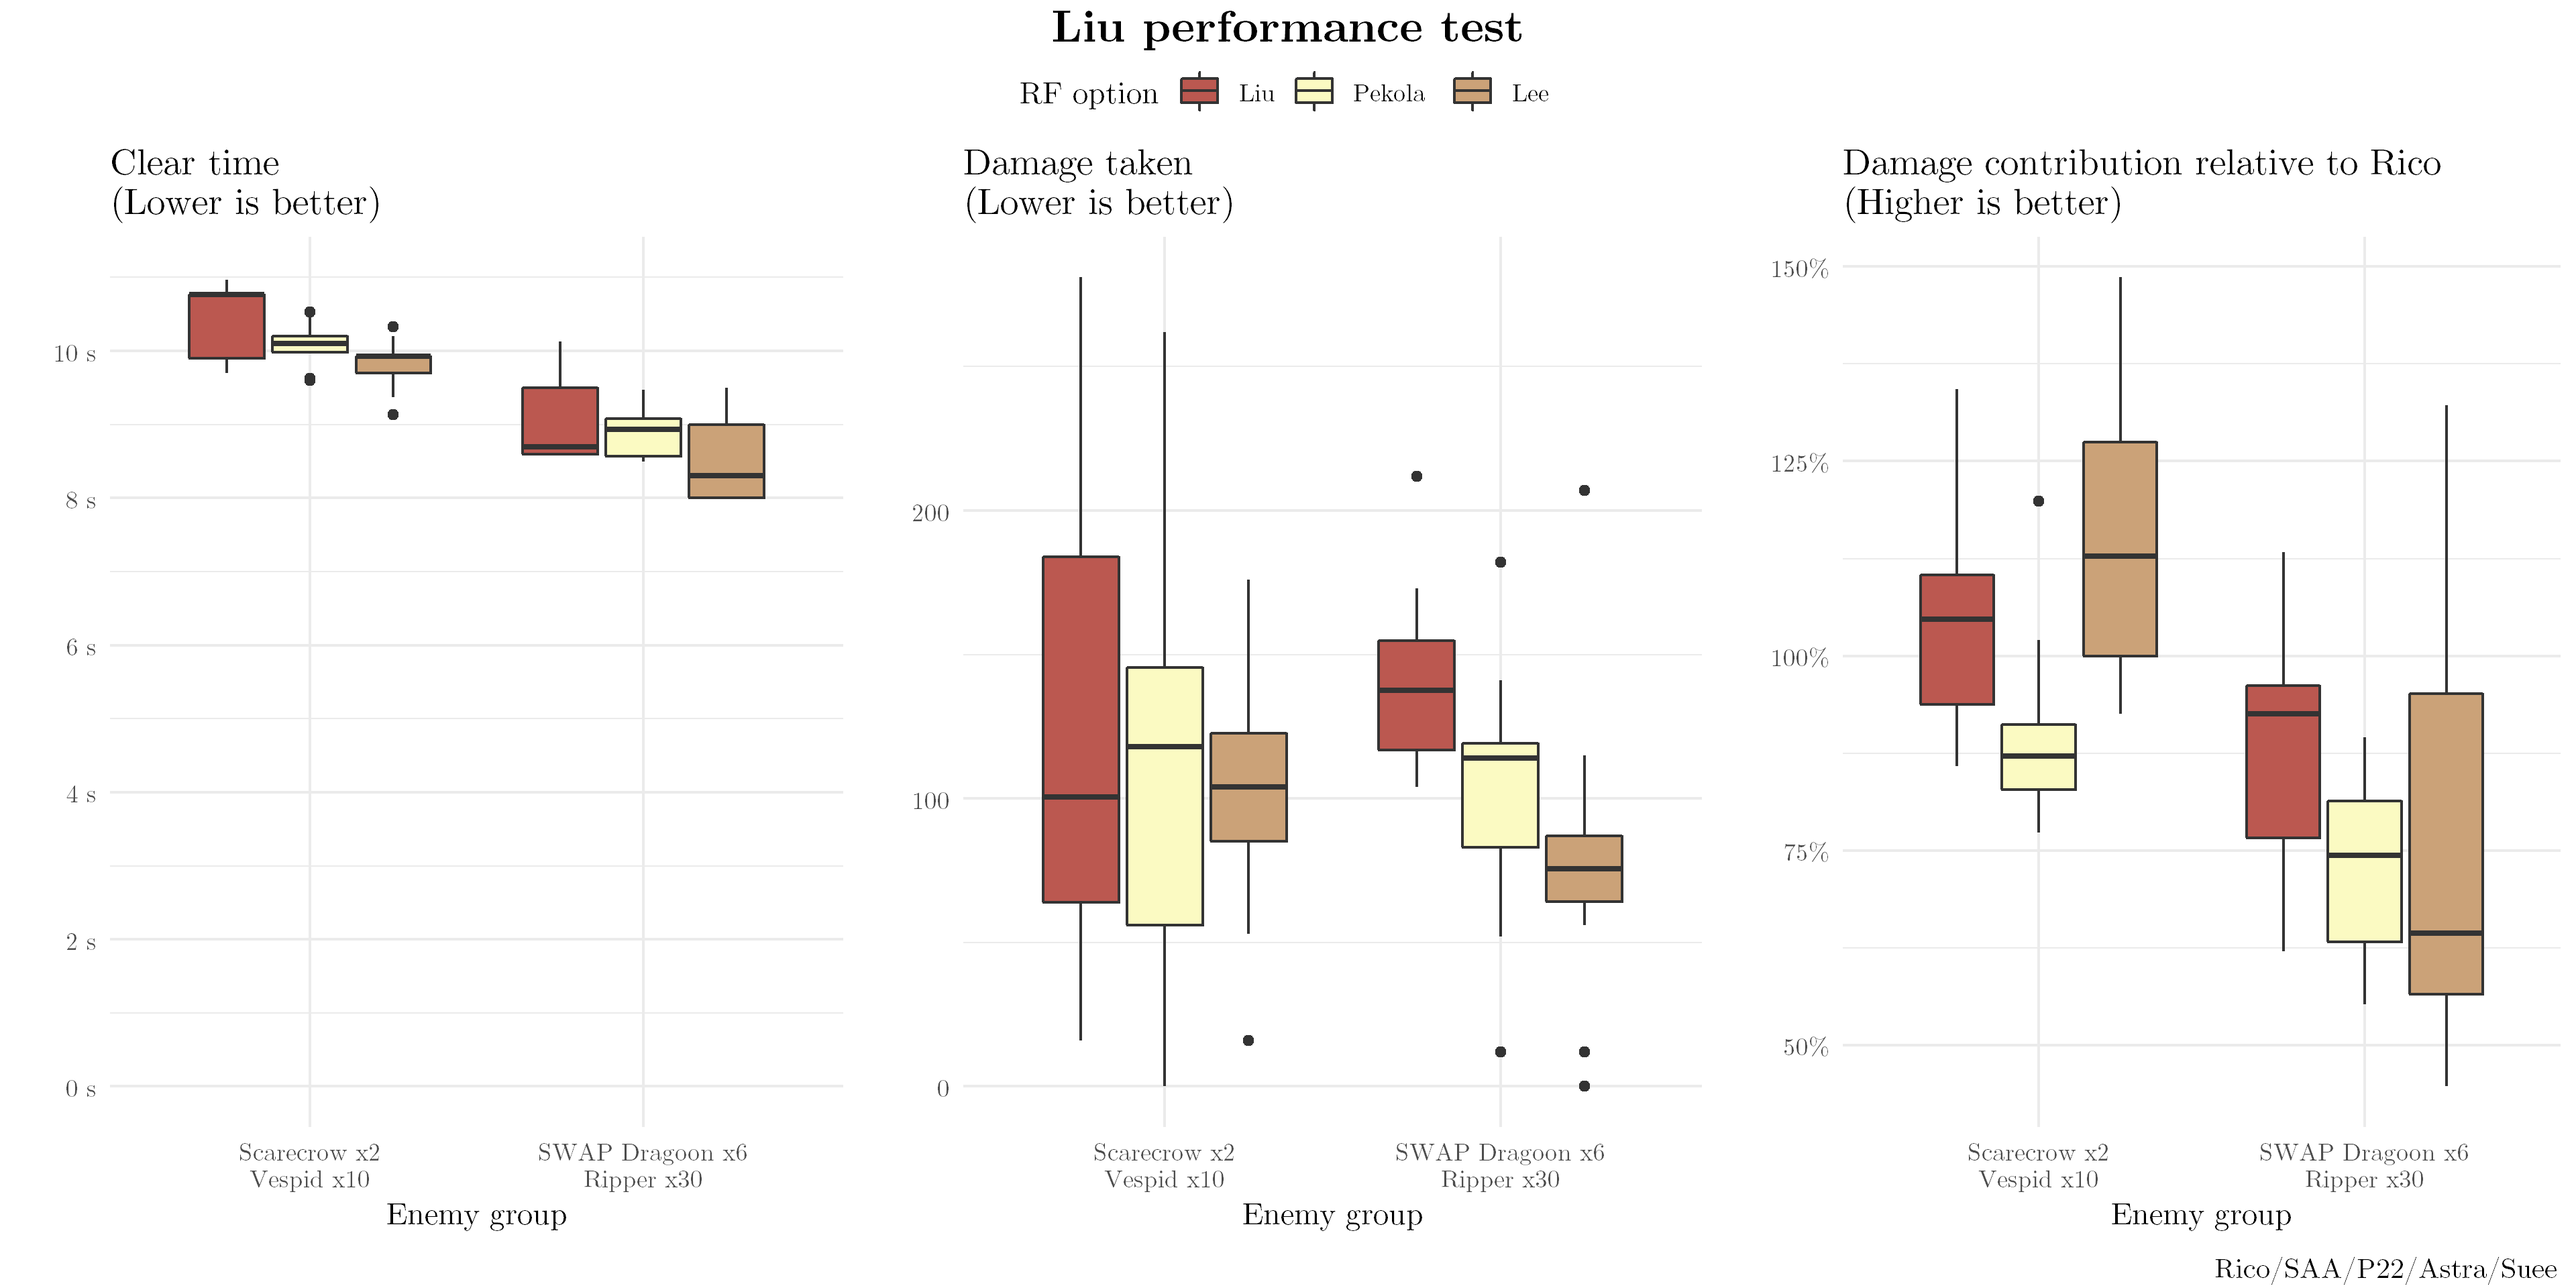
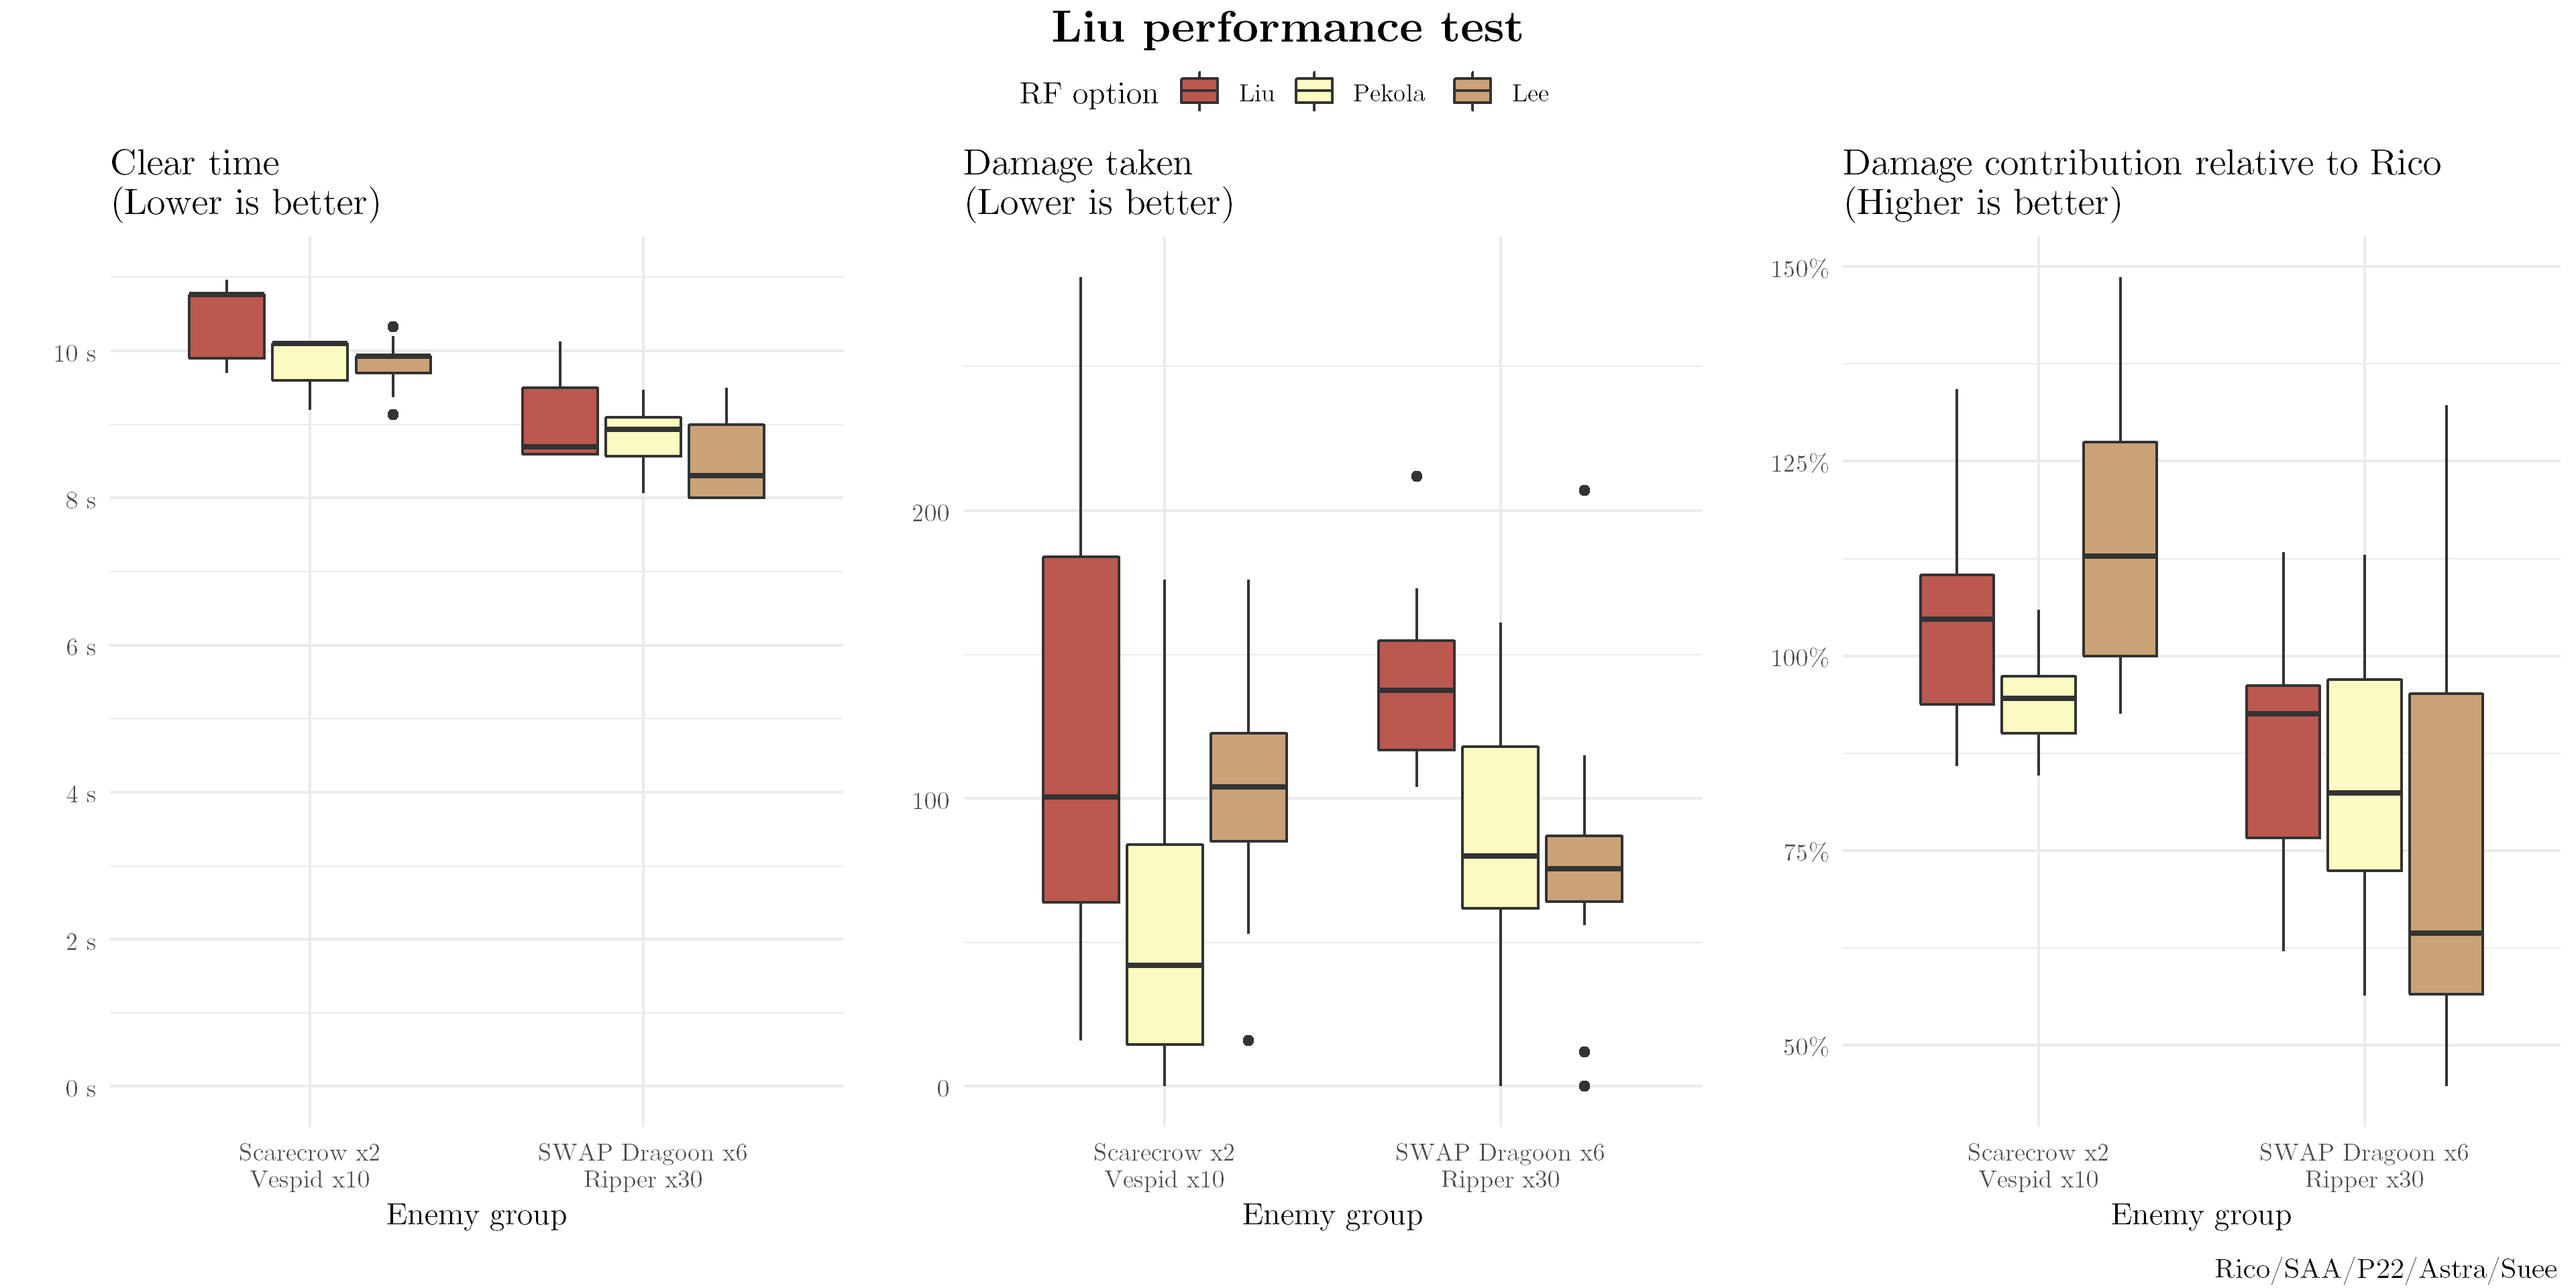
liu: fixed Pekola test results

diff --git a/pages/glue.html b/pages/glue.html
@@ -40,11 +40,7 @@ gtag('config', 'G-805N997DPC');
 <header class="major">
 <h1>General Liu</h1>
 </header>
-<center><em>By BigStupidJellyfish | 2022-February-28</em></center>
-
-<!-- <p>
-	Alternatively: "In defense of Thompson"
-</p> -->
+<center><em>By BigStupidJellyfish | 2022-February-28 | Updated 2022-March-01</em></center>
 
 <blockquote>
 	<p><strong>Shared Vengeance</strong> ICD 1s/CD 1s</p>
@@ -286,15 +282,15 @@ $$ 5\text{ links} \times \frac{30 \text{ frames/sec}}{\left\lfloor \frac{1500}{\
 	<img src="images/glue/liu-test-3.png" width="100%"/>
 </div><em></em></center>
 <p>
-	None of the rifles did a great job of outdamaging Rico, and Liu stand out as much here.
-	She performed similarly to Lee and was probably better than Pekola.
+	None of the rifles did a great job of outdamaging Rico, Liu included.
+	She performed similarly to Lee, if perhaps a little worse.
+	Pekola's damage output was in a similar range to both, but her shields were helpful in reducing damage.
 	(For consistency and ease of testing, all rifles used standard AP ammo except Pekola who was using sniper ammo. As these enemies were unarmored, you could use sniper ammo on all of them, reducing Pekola's relative performance somewhat.)
 </p>
 <p>
 	Note that the damage taken against Scarecrow was almost entirely random - her 150 FP would take a HG link if she did hit, which only happened sometimes considering her 30 ACC.
 	I would not take this as evidence of Lee actually performing more consistently or anything like that.
 </p>
-<!-- Pekola shields not separated - impact can vary. Crow does 150 damage, way more than HG link HP - shield damage exaggerated. Hopefully not a big deal. -->
 <span class="anchor" id="p22"></span>
 <h2>Is P22 bad?<sup><small><a href="#p22">&#35;</a></small></sup></h2>
 <p>
